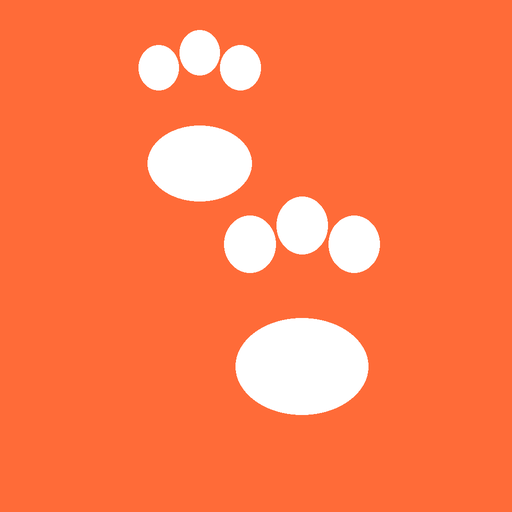
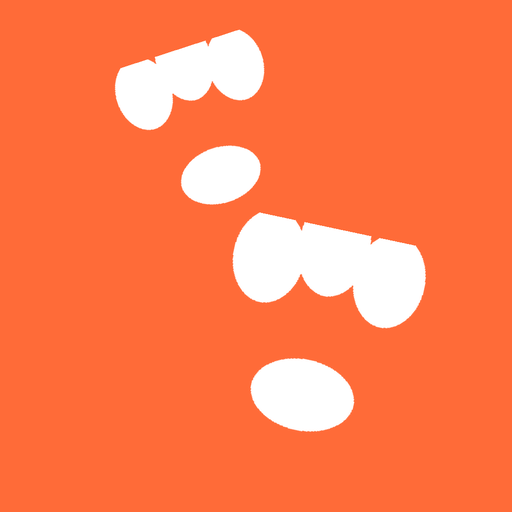
Separate the paw trail so all three toes stay visible.

Changed region(s): [[0.2188, 0.0312, 0.8438, 0.7812], [0.5, 0.7812, 0.6875, 0.8438]]

diff --git a/frontend/src/components/PetsyLogo.tsx b/frontend/src/components/PetsyLogo.tsx
@@ -1,5 +1,5 @@
 import React, { useEffect } from 'react';
-import { View, Text, StyleSheet, ViewStyle, TextStyle, Image } from 'react-native';
+import { View, Text, StyleSheet, ViewStyle, TextStyle } from 'react-native';
 import Animated, {
   Easing,
   useAnimatedStyle,
@@ -12,9 +12,39 @@ import { Brand } from '../brand/tokens';
 
 type Size = 'sm' | 'md' | 'lg' | 'xl' | number;
 const SIZE_MAP = { sm: 36, md: 56, lg: 88, xl: 128 };
-const MARK = require('../../assets/images/icon.png');
 
-/** Orange disc with two white 3-toe footprints (from brand icon asset) */
+function Paw({ size, color = Brand.colors.white }: { size: number; color?: string }) {
+  const toe = size * 0.20;
+  return (
+    <View style={{ width: size, height: size * 1.2, alignItems: 'center' }}>
+      <View style={{ flexDirection: 'row', alignItems: 'flex-end', gap: size * 0.09 }}>
+        {[0.9, 1, 0.9].map((scale, i) => (
+          <View
+            key={i}
+            style={{
+              width: toe * scale,
+              height: toe * scale * 1.35,
+              borderRadius: toe,
+              backgroundColor: color,
+              marginBottom: i === 1 ? toe * 0.42 : toe * 0.06,
+            }}
+          />
+        ))}
+      </View>
+      <View
+        style={{
+          width: size * 0.58,
+          height: size * 0.42,
+          borderRadius: size,
+          backgroundColor: color,
+          marginTop: size * 0.06,
+        }}
+      />
+    </View>
+  );
+}
+
+/** Orange disc with two white footprints — pet + sy */
 export function PetsyMark({
   size = 'md',
   style,
@@ -26,26 +56,51 @@ export function PetsyMark({
   creative?: boolean;
 }) {
   const s = typeof size === 'number' ? size : SIZE_MAP[size];
-  const scale = useSharedValue(animated ? 0.82 : 1);
-  const opacity = useSharedValue(1);
+  const disc = useSharedValue(animated ? 0.72 : 1);
+  const pawA = useSharedValue(animated ? 0 : 1);
+  const pawB = useSharedValue(animated ? 0 : 1);
 
   useEffect(() => {
     if (!animated) return;
-    scale.value = withSpring(1, { damping: 11, stiffness: 140 });
+    disc.value = withSpring(1, { damping: 11, stiffness: 140 });
+    pawA.value = withDelay(180, withTiming(1, { duration: 280, easing: Easing.out(Easing.cubic) }));
+    pawB.value = withDelay(340, withTiming(1, { duration: 320, easing: Easing.out(Easing.cubic) }));
   }, [animated]);
 
-  const discStyle = useAnimatedStyle(() => ({
-    opacity: opacity.value,
-    transform: [{ scale: scale.value }],
+  const discStyle = useAnimatedStyle(() => ({ transform: [{ scale: disc.value }] }));
+  const aStyle = useAnimatedStyle(() => ({
+    opacity: pawA.value,
+    transform: [{ translateY: (1 - pawA.value) * 6 }, { rotate: '-18deg' }],
+  }));
+  const bStyle = useAnimatedStyle(() => ({
+    opacity: pawB.value,
+    transform: [{ translateY: (1 - pawB.value) * 6 }, { rotate: '12deg' }],
   }));
 
   return (
-    <Animated.View style={[{ width: s, height: s }, style, discStyle]}>
-      <Image
-        source={MARK}
-        style={{ width: s, height: s, borderRadius: s / 2 }}
-        resizeMode="cover"
-      />
+    <Animated.View
+      style={[
+        {
+          width: s,
+          height: s,
+          borderRadius: s / 2,
+          backgroundColor: Brand.colors.orange,
+          alignItems: 'center',
+          justifyContent: 'center',
+          overflow: 'hidden',
+        },
+        style,
+        discStyle,
+      ]}
+    >
+      {/* small upper print — lifted so toes stay clear of the lower paw */}
+      <Animated.View style={[{ position: 'absolute', left: s * 0.20, top: s * 0.08 }, aStyle]}>
+        <Paw size={s * 0.36} />
+      </Animated.View>
+      {/* larger lower print */}
+      <Animated.View style={[{ position: 'absolute', left: s * 0.34, top: s * 0.42 }, bStyle]}>
+        <Paw size={s * 0.46} />
+      </Animated.View>
     </Animated.View>
   );
 }
@@ -73,6 +128,7 @@ function NameLetter({ ch, index, fontSize }: { ch: string; index: number; fontSi
   );
 }
 
+/** Staggered Petsy wordmark */
 export function PetsyName({ fontSize = 44 }: { fontSize?: number }) {
   return (
     <View style={styles.nameWrap}>
